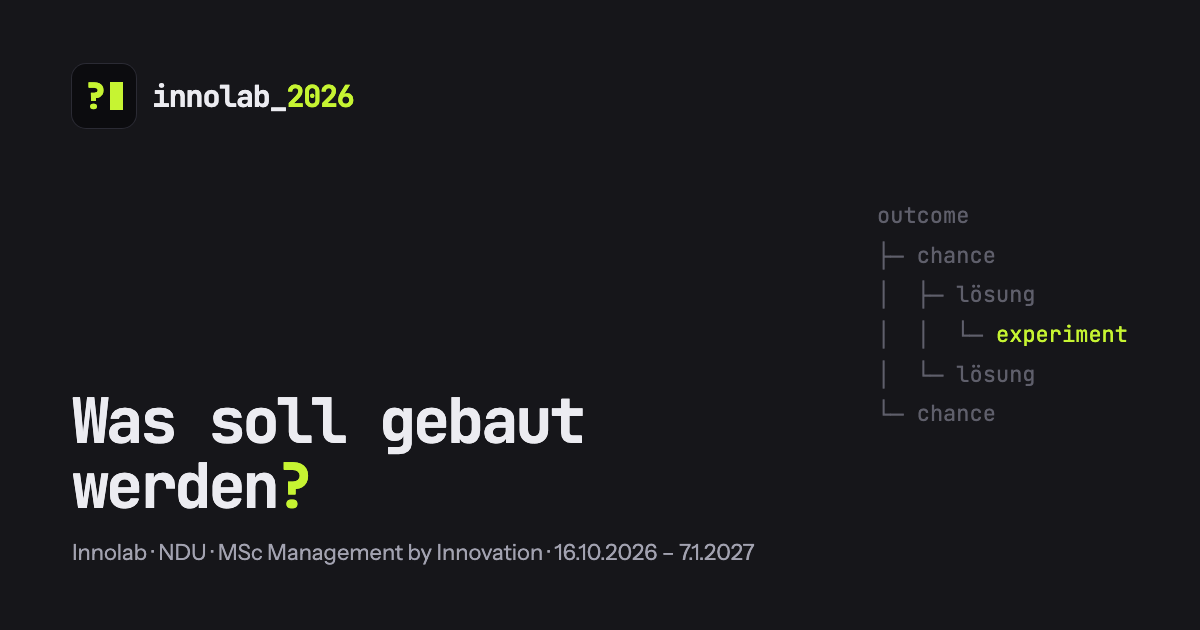
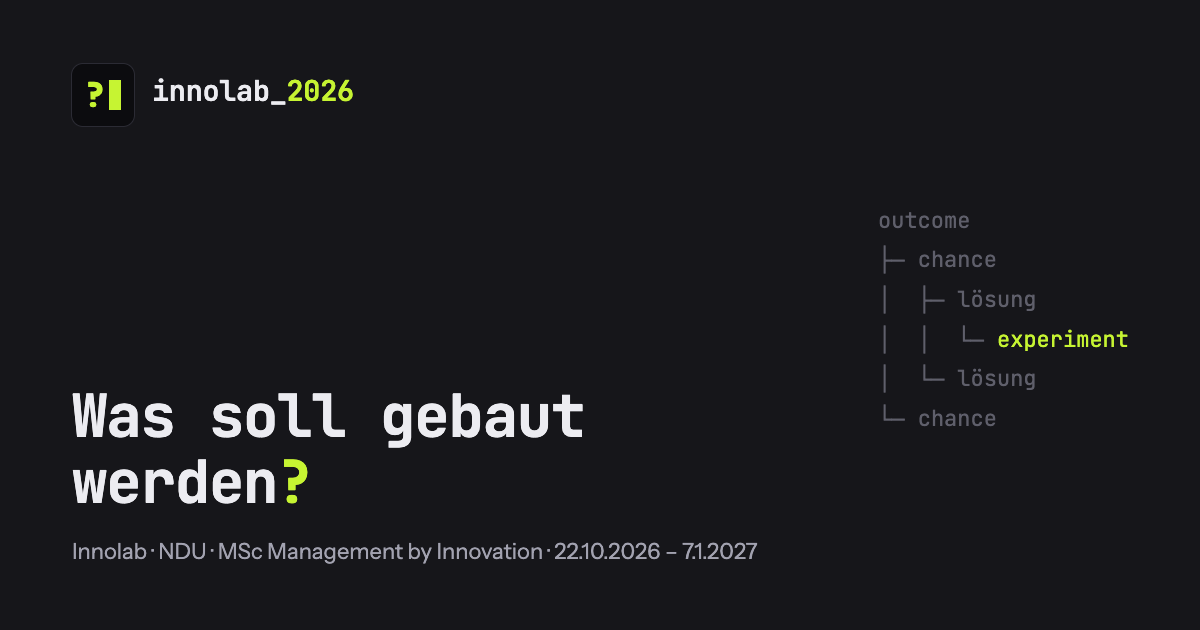
Innolab: Tag 1 am 22.10., Tag 2 „Termin folgt“ (#191)
* Innolab Tag 1 auf Do 22.10. verschoben

Tag 1 am 16.10. fiel krankheitsbedingt aus; der Inhalt läuft am 22.10.
(Variante A: Ersatztermin für Tag 2, Tag 3–7 bleiben). Datum auf der
Tag-1-Seite, in TAGE, in Login-Vorschau und Navigation. Die Kurskarte
auf /start öffnet weiter nach dem Coding-Kurs; der Test verlangt nur
noch, dass sie spätestens am ersten Innolab-Tag offen ist.

Claude-Session: https://claude.ai/code/session_01FYKCvUicNXbMPrETMCsAy8

* Innolab Tag 2: Termin folgt

Nach der Absage von Tag 1 läuft dessen Inhalt am 22.10.; Tag 2 bekommt
einen Ersatztermin, den Markus bei der NDU anfragt. Bis dahin steht
„Termin folgt“ (Übersicht, /start, Tagesseite), ohne Jetzt-Markierung.
TAGE.datum ist dafür optional, der Test verlangt dann kein data-kurstag.
Beispieldaten im Entscheidungslog passend verschoben.

Claude-Session: https://claude.ai/code/session_01FYKCvUicNXbMPrETMCsAy8

* Termine: Link-Vorschau neu (22.10.), Quelle im Repo; Befunde aus #191

- public/og-innolab.png trug noch „16.10.2026“: neu gerendert aus
  og/og-innolab.html (Nachbau des Bilds, Anleitung im Kopf der Datei),
  damit die nächste Terminänderung nicht wieder ein Bild ohne Quelle trifft.
- kurswahl.ts: Kommentar stimmt wieder; der Test prüft beide Grenzen
  (nach dem letzten Coding-Tag, spätestens am ersten Innolab-Tag).
- README: Stichtag und Herkunft des Vorschaubilds.

Claude-Session: https://claude.ai/code/session_01FYKCvUicNXbMPrETMCsAy8

---------

diff --git a/og/og-innolab.html b/og/og-innolab.html
@@ -1,0 +1,29 @@
+<!doctype html><html><head><meta charset="utf-8">
+<!-- Quelle von public/og-innolab.png (Link-Vorschau des Innolab, 1200×630). Neu erzeugen, z. B. nach einer Terminänderung:
+     im Repo-Wurzelordner `python3 -m http.server 4333`, http://localhost:4333/og/og-innolab.html in Chrome mit Viewport
+     1200×630 bei Pixelfaktor 1 öffnen, Screenshot als public/og-innolab.png speichern. Termine wie TAGE in methoden.ts. --><style>
+@font-face { font-family: JBM; src: url(/node_modules/@fontsource-variable/jetbrains-mono/files/jetbrains-mono-latin-wght-normal.woff2) format('woff2'); font-weight: 100 800; }
+@font-face { font-family: JBM; src: url(/node_modules/@fontsource-variable/jetbrains-mono/files/jetbrains-mono-latin-ext-wght-normal.woff2) format('woff2'); font-weight: 100 800; unicode-range: U+0100-024F; }
+@font-face { font-family: IS; src: url(/node_modules/@fontsource-variable/instrument-sans/files/instrument-sans-latin-wght-normal.woff2) format('woff2'); font-weight: 400 700; }
+html, body { margin: 0; }
+body { width: 1200px; height: 630px; background: #16161a; color: #ececf1; position: relative; overflow: hidden; }
+.logo { position: absolute; left: 71px; top: 63px; width: 64px; height: 64px; box-sizing: border-box; background: #0c0c0f; border: 1px solid #2b2b34; border-radius: 12px; display: flex; align-items: center; justify-content: center; gap: 4px; }
+.frage { font: 800 34px/1 JBM; color: #c6f432; }
+.block { width: 12px; height: 30px; background: #c6f432; }
+.name { position: absolute; left: 152px; top: 76px; font: 600 28.5px/1 JBM; letter-spacing: -.01em; }
+.g { color: #c6f432; }
+h1 { position: absolute; left: 72px; top: 383px; margin: 0; font: 700 59px/66px JBM; letter-spacing: -.02em; }
+.sub { position: absolute; left: 72px; top: 537px; font: 400 22px/1.3 IS; color: #a2a2b0; }
+pre { position: absolute; left: 878px; top: 200px; margin: 0; font: 400 22px/39.6px JBM; color: #5f5f6b; }
+</style></head><body>
+<div class="logo"><span class="frage">?</span><span class="block"></span></div>
+<div class="name">innolab_<span class="g">2026</span></div>
+<h1>Was soll gebaut<br>werden<span class="g">?</span></h1>
+<div class="sub">Innolab · NDU · MSc Management by Innovation · 22.10.2026 – 7.1.2027</div>
+<pre>outcome
+├─ chance
+│  ├─ lösung
+│  │  └─ <span class="g">experiment</span>
+│  └─ lösung
+└─ chance</pre>
+</body></html>

diff --git a/src/components/methoden.ts b/src/components/methoden.ts
@@ -376,10 +376,11 @@ export const METHODEN: Methode[] = [
 
 /** Sieben Termine: Tag 1–4 Input und Übung, Tag 5 und 6 (halber Tag) nur Bauen – mit den Scrum-Events, aber ohne neue
  *  Methode –, Tag 7 (halber Tag) Präsentation. Dazwischen arbeitet ihr zu Hause; gebaut wird bis Tag 6.
- *  datum steht auch als data-kurstag auf der Tagesseite (methoden.test.ts prüft das). */
-export const TAGE: { n: number; datum: string; titel: string; text: string }[] = [
-  { n: 1, datum: '2026-10-16', titel: 'Rahmen & Verstehen', text: 'Problem und Outcome festlegen, Interviews vorbereiten, Annahmen sichtbar machen.' },
-  { n: 2, datum: '2026-10-22', titel: 'Kunde & Erlebnis', text: 'Interviews auswerten, Kundenprofil, Journey Map, Chancen und Ideen.' },
+ *  datum steht auch als data-kurstag auf der Tagesseite (methoden.test.ts prüft das). Ohne datum: Termin folgt
+ *  (Tag 2 nach der Absage von Tag 1 am 16.10.) – dann keine Jetzt-Markierung auf der Tagesseite. */
+export const TAGE: { n: number; datum?: string; titel: string; text: string }[] = [
+  { n: 1, datum: '2026-10-22', titel: 'Rahmen & Verstehen', text: 'Problem und Outcome festlegen, Interviews vorbereiten, Annahmen sichtbar machen.' },
+  { n: 2, titel: 'Kunde & Erlebnis', text: 'Interviews auswerten, Kundenprofil, Journey Map, Chancen und Ideen.' },
   { n: 3, datum: '2026-11-21', titel: 'Lösung, Story, Prototyp', text: 'Value Map, Concept und Usage Story, Story Map, erster Prototyp.' },
   { n: 4, datum: '2026-11-28', titel: 'Scrum im Team', text: 'Ein Team, drei Produkte: Scrum, Backlog, Akzeptanzkriterien, Sprint-1-Planning, Pitch.' },
   { n: 5, datum: '2026-12-12', titel: 'Bauen & Review', text: 'Bauen, Usability-Tests über Kreuz, Sprint-1-Review, Retro, Sprint-2-Planning mit Störfall.' },

diff --git a/src/lib/kurswahl.test.ts b/src/lib/kurswahl.test.ts
@@ -4,8 +4,11 @@ import { sichererPfad } from './kurszugang';
 import { TAGE } from '../components/methoden';
 
 describe('kurswahl', () => {
-  it('Stichtag ist der erste Innolab-Tag', () => {
-    expect(INNOLAB_AB).toBe(TAGE[0].datum);
+  it('Stichtag liegt nach dem letzten Coding-Tag (15.10.) und spätestens am ersten Innolab-Tag (seit der Absage am 16.10. der 22.10.)', () => {
+    const ersterTag = TAGE[0].datum;
+    expect(ersterTag, 'Tag 1 braucht ein Datum').toBeDefined();
+    expect(INNOLAB_AB > '2026-10-15').toBe(true);
+    expect(INNOLAB_AB <= ersterTag!).toBe(true);
   });
 
   it('rechnet den Kalendertag in Wien, nicht in UTC', () => {

diff --git a/src/lib/kurswahl.ts b/src/lib/kurswahl.ts
@@ -2,7 +2,8 @@
 // Stichtag als Kalendertag in Wien – nicht in UTC, sonst öffnet es am Vorabend um 1 bzw. 2 Uhr Wiener Zeit zu spät oder zu früh.
 import { zumLogin } from './kurszugang';
 
-/** Erster Innolab-Tag (= TAGE[0].datum in components/methoden.ts; kurswahl.test.ts prüft das). */
+/** Tag nach dem letzten Coding-Tag; spätestens der erste Innolab-Tag (TAGE[0].datum in components/methoden.ts – seit der
+ *  Absage am 16.10. ist das der 22.10.). kurswahl.test.ts prüft beide Grenzen. */
 export const INNOLAB_AB = '2026-10-16';
 
 /** Kalendertag in Wien als JJJJ-MM-TT. */

diff --git a/src/components/methoden.test.ts b/src/components/methoden.test.ts
@@ -129,7 +129,7 @@ describe('methoden', () => {
     expect(seiten.length).toBeGreaterThanOrEqual(6);
     for (const { t, url } of seiten) {
       const kurstage = [...readFileSync(url, 'utf8').matchAll(/data-kurstag="([^"]+)"/g)].map((m) => m[1]);
-      expect(kurstage, `tag-${t.n}`).toStrictEqual([t.datum]);
+      expect(kurstage, `tag-${t.n}`).toStrictEqual(t.datum ? [t.datum] : []);
     }
   });
 });

diff --git a/src/lib/navigation.ts b/src/lib/navigation.ts
@@ -41,7 +41,7 @@ export const BEREICHE: Record<Bereich, BereichInfo> = {
     favicon: '/favicon-innolab.svg',
     titel: 'NDU Innolab 2026',
     beschreibung: 'Innolab – ein digitales Produkt entwickeln und organisieren. MSc Management by Innovation, NDU, 2026',
-    termine: '16. Oktober 2026 – 7. Jänner 2027',
+    termine: '22. Oktober 2026 – 7. Jänner 2027',
     kurz: 'Innolab',
   },
 };

diff --git a/README.md b/README.md
@@ -27,7 +27,7 @@ npm run build    # Ausgabe in dist/
 ## Im Kurs am Beamer
 
 - `?beamer` (oder Taste `B`): größere Schrift, ohne Seitenleiste; `?beamer=0` schaltet aus. Den Beamer-Modus gibt es nur beim Präsentator (auf diesem Browser angemeldet auf `/praesentator`): Knöpfe, Taste `B`, `?beamer` und das Merken der Wahl. Bei allen anderen wird `?beamer` ignoriert und ein gespeicherter Beamer-Modus beim nächsten Laden gelöscht. Regel: `src/components/BeamerStart.astro`.
-- `/start`: Startseite vor dem Login, öffentlich (ohne Kurspasswort), mit der Kurswahl: Programmieren mit AI (`/`) und Innolab (`/innolab`). Das Innolab ist ausgegraut bis zum ersten Innolab-Tag (16.10., Wiener Zeit; `src/lib/kurswahl.ts`). Wer ohne Anmeldung `/` aufruft, landet hier; die Kurskarten führen über die Login-Seite des Kurses zum Kurs (ohne Anmeldung erst das Kurspasswort, sonst direkt weiter): `/login` für den Coding-Kurs, `/login/innolab` (Innolab-Marke und -Link-Vorschau) für alles unter `/innolab`.
+- `/start`: Startseite vor dem Login, öffentlich (ohne Kurspasswort), mit der Kurswahl: Programmieren mit AI (`/`) und Innolab (`/innolab`). Das Innolab ist ausgegraut, bis der Coding-Kurs vorbei ist (ab 16.10., Wiener Zeit; spätestens am ersten Innolab-Tag, seit der Absage von Tag 1 der 22.10.; `src/lib/kurswahl.ts`). Die Link-Vorschau `public/og-innolab.png` entsteht aus `og/og-innolab.html` (Anleitung im Kopf der Datei). Wer ohne Anmeldung `/` aufruft, landet hier; die Kurskarten führen über die Login-Seite des Kurses zum Kurs (ohne Anmeldung erst das Kurspasswort, sonst direkt weiter): `/login` für den Coding-Kurs, `/login/innolab` (Innolab-Marke und -Link-Vorschau) für alles unter `/innolab`.
 - Nach NDU Live am Beamer: `/start?beamer` – die Kurs-Links bleiben im Beamer-Modus (`/?beamer`, `/innolab?beamer`). Vorher einmal auf `/praesentator` anmelden.
 - **„Wo ist Markus?“:** Studierende sehen unten rechts „Markus ist bei: Tag 1 · Übung 1 b“ und springen per Klick dorthin (nie automatisch). Gemeldet wird vom Beamer-Tab: Seite und Abschnitt unter der Lesezeile, bei offener Screenshot-Präsentation der Schritt; bei Änderung nach 1,5 s, sonst jede Minute. Studierende fragen alle 2 s (ohne frische Position alle 15 s). Nach 2 min ohne Signal „· vor N min“, nach 30 min weg.
   - Anmelden am Präsentator-Rechner auf `/praesentator` (nicht im Menü) mit dem `PRESENTER_KEY`; der Browser merkt ihn sich, Abmelden auf derselben Seite. Gemeldet wird nur im Beamer-Modus. Der Schalter „Live“ neben „Beamer“ zeigt den Zustand (Punkt gefüllt = sendet, hohl = Pause oder kein Beamer-Modus, gelb = letzte Meldung gescheitert); Klick pausiert und löscht die Position, sodass der Knopf bei den Studierenden verschwindet.
